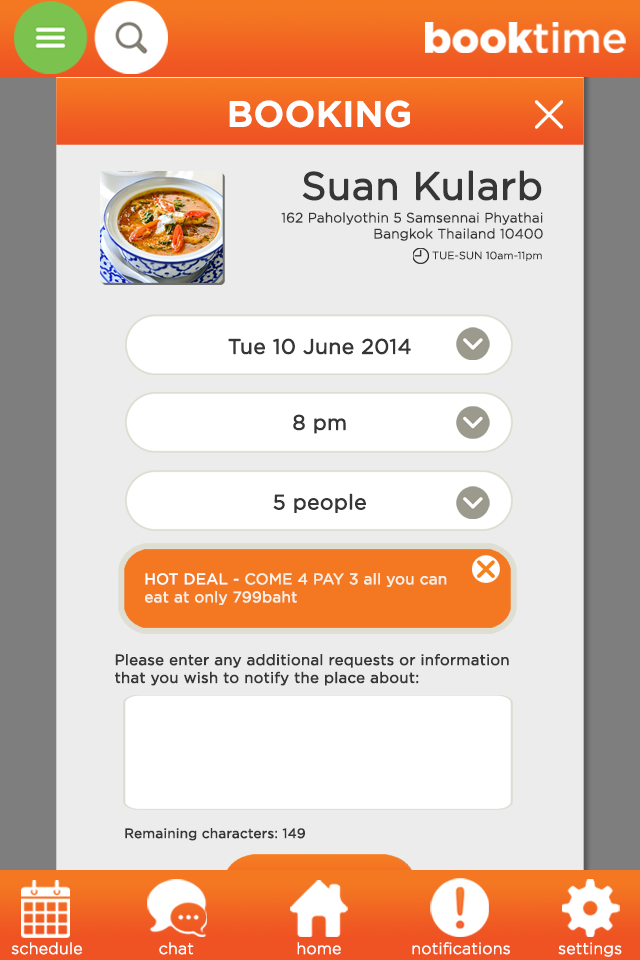
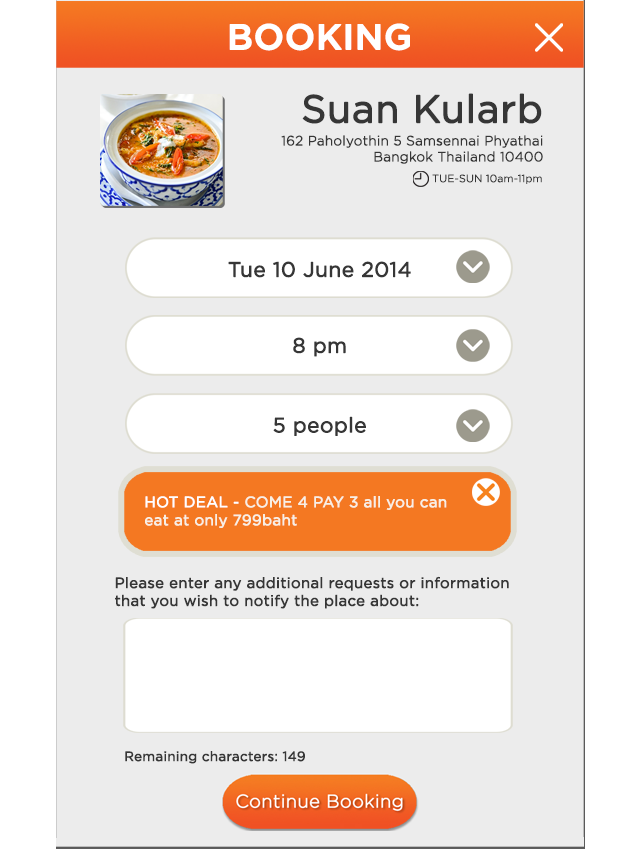
add booking screen

diff --git a/MEAN/public/modules/home/controllers/shop.js b/MEAN/public/modules/home/controllers/shop.js
@@ -1,0 +1,22 @@
+'use strict';
+
+
+angular.module('home').controller('ShopController', [
+    '$scope', '$ionicModal',
+    function ($scope, $ionicModal) {
+ 
+        $ionicModal.fromTemplateUrl('modules/home/views/booking.html', function ($ionicModal) {
+            $scope.modal = $ionicModal;
+        }, {
+            // Use our scope for the scope of the modal to keep it simple
+            scope: $scope,
+            // The animation we want to use for the modal entrance
+            animation: 'slide-in-up'
+        });
+
+ 
+        $scope.getDirection = function () {
+            alert('Get Direction');
+        };
+    }
+]);

diff --git a/MEAN/public/modules/home/views/booking.html b/MEAN/public/modules/home/views/booking.html
@@ -1,0 +1,14 @@
+ 
+<div class="modal">
+    <ion-header-bar>
+        <h1 class="title">BOOKING</h1>
+        <div class="buttons">
+            <div class="button button-clear" ng-click="modal.hide()"><span class="icon ion-close"></span></div>
+        </div>
+    </ion-header-bar>
+    <ion-content has-header ="true" padding="true">
+        <div class="mockup">
+            <img src="res/screen/share/2x/06_booking1-popup.png" />
+        </div>
+    </ion-content>
+</div>

diff --git a/MEAN/public/modules/home/views/shop.html b/MEAN/public/modules/home/views/shop.html
@@ -13,7 +13,7 @@
             <img src="res/screen/share/2x/03_suankularb1.jpg">
         </div>
         <br/><br />
-        <button class="button">BOOK ME!</button><br />
-        <button class="button">Get Direction</button><br />
+        <button class="button" ng-click="modal.show()">BOOK ME!</button><br />
+        <button class="button" ng-click="getDirection()">Get Direction</button><br />
     </ion-content>
 </ion-view>

diff --git a/MEAN/public/modules/home/config/routes.js b/MEAN/public/modules/home/config/routes.js
@@ -18,7 +18,8 @@ angular.module('home').config([
                 url: "/shop",
                 views: {
                     'home-tab': {
-                        templateUrl: "modules/home/views/shop.html"
+                        templateUrl: "modules/home/views/shop.html",
+                        controller: "ShopController"
                     }
                 }
             });

diff --git a/MEAN/public/modules/home/controllers/booking.controller.js b/MEAN/public/modules/home/controllers/booking.controller.js
@@ -1,0 +1,14 @@
+'use strict';
+
+
+angular.module('home').factory('BookingController', [
+    '$scope', '$ionicModal',
+    function ($scope, $ionicModal) {
+
+      
+        $scope.bookMe = function () {
+            alert('BOOK ME!');
+        };
+ 
+    }
+]);

diff --git a/MEAN/public/modules/chat/config/routes.js b/MEAN/public/modules/chat/config/routes.js
@@ -13,7 +13,6 @@ angular.module('core').config([
                     }
                 }
             });
-
-        $urlRouterProvider.otherwise("/main/tab/home");
+         
     }
 ]);
